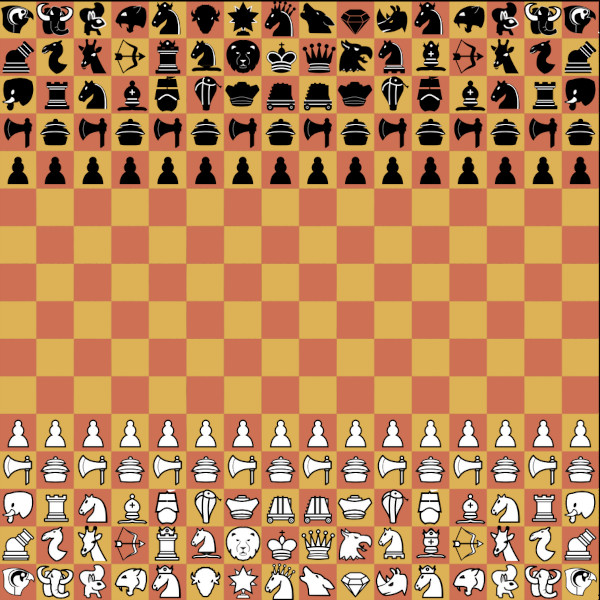
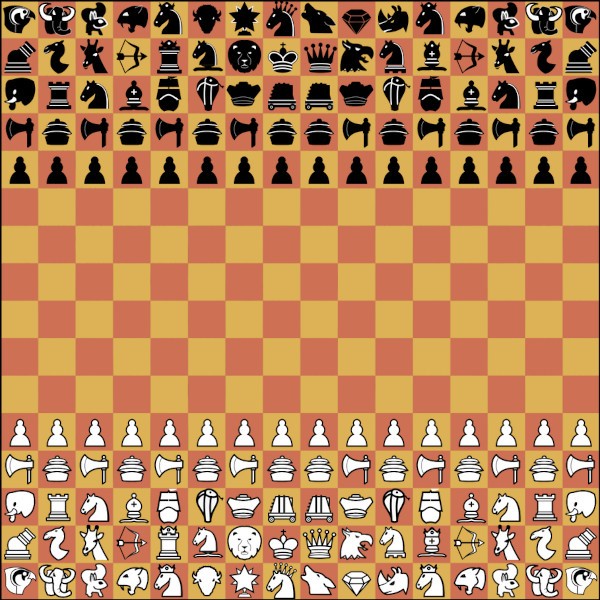
Bigorra : fix the soldier's movement and initial position

diff --git a/src/games/chessbase/cazaux/bigorra-model.js b/src/games/chessbase/cazaux/bigorra-model.js
@@ -196,7 +196,7 @@
 						[-3,3],[0,3],[3,3],[-3,0],[3,0],[-3,-3],
 						[0,-3],[-3,3]])),
                     value : 3.2,
-                    initial: [{s:1,p:48},{s:1,p:50},{s:1,p:52},{s:1,p:54},{s:1,p:56},{s:1,p:58},{s:1,p:60},{s:1,p:62}],
+                    initial: [{s:1,p:48},{s:1,p:50},{s:1,p:52},{s:1,p:54},{s:1,p:57},{s:1,p:59},{s:1,p:61},{s:1,p:63}],
                 },
                 10: {
                     name : 'troll-b',
@@ -208,7 +208,7 @@
 						[-3,3],[0,3],[3,3],[-3,0],[3,0],[-3,-3],
 						[0,-3],[-3,3]])),
                     value : 3.2,
-                    initial: [{s:-1,p:192},{s:-1,p:194},{s:-1,p:196},{s:-1,p:198},{s:-1,p:200},{s:-1,p:202},{s:-1,p:204},{s:-1,p:206}],
+                    initial: [{s:-1,p:192},{s:-1,p:194},{s:-1,p:196},{s:-1,p:198},{s:-1,p:201},{s:-1,p:203},{s:-1,p:205},{s:-1,p:207}],
                 },
                 11: {
                   name : 'princew',
@@ -267,9 +267,9 @@
                   graph : this.cbMergeGraphs(geometry,
                   this.cbInitialPawnGraph(geometry,1),
                   this.cbShortRangeGraph(geometry,[
-						[-1,0],[1,0]])),
+						[-1,0],[1,0]],0, this.cbConstants.FLAG_MOVE)),
                   value : 0.9,
-                  initial: [{s:1,p:49},{s:1,p:51},{s:1,p:53},{s:1,p:55},{s:1,p:57},{s:1,p:59},{s:1,p:61},{s:1,p:63}],
+                  initial: [{s:1,p:49},{s:1,p:51},{s:1,p:53},{s:1,p:55},{s:1,p:56},{s:1,p:58},{s:1,p:60},{s:1,p:62}],
                   epCatch : true,
                   epTarget : true,
                 },
@@ -280,9 +280,9 @@
                   graph : this.cbMergeGraphs(geometry,
                   this.cbInitialPawnGraph(geometry,-1),
                   this.cbShortRangeGraph(geometry,[
-						[-1,0],[1,0]])),
+						[-1,0],[1,0]],0, this.cbConstants.FLAG_MOVE)),
                   value : 0.9,
-                  initial: [{s:-1,p:193},{s:-1,p:195},{s:-1,p:197},{s:-1,p:199},{s:-1,p:201},{s:-1,p:203},{s:-1,p:205},{s:-1,p:207}],
+                  initial: [{s:-1,p:193},{s:-1,p:195},{s:-1,p:197},{s:-1,p:199},{s:-1,p:200},{s:-1,p:202},{s:-1,p:204},{s:-1,p:206}],
                   epCatch : true,
                   epTarget : true,
                   },

diff --git a/src/games/chessbase/res/rules/shogi/chu-seireigi-shogi-rules.html b/src/games/chessbase/res/rules/shogi/chu-seireigi-shogi-rules.html
@@ -68,7 +68,7 @@
 <p><img class='piece-icon' src="{GAME}/res/rules/shogi/w-trident.png"/><b>Whale</b> is the promotion of the Strong bear</p>
 <p><img class='piece-graph' src="{GAME}/res/rules/shogi/graphs/seireigi-whale.png"/></p>
 <p><b>Prancing stag</b> is the promotion of the Running rabbit</p> 
-<p><img class="piece-graph" src="{GAME}/res/rules/shogi/graphs/stag.png"/></p>
+<p><img class="piece-graph" src="{GAME}/res/rules/shogi/graphs/seireigi-prancing-stag.png"/></p>
 <p><b>Teaching king</b> is the promotion of the Great elephant</p> <p><img class="piece-graph" src="{GAME}/res/rules/shogi/graphs/teacher.png"/></p>
 <p><b>Treacherous fox</b> is the promotion of the Ram's-head soldier</p> <p><img class="piece-graph" src="{GAME}/res/rules/shogi/graphs/fox.png"/></p>
 <p><b>Golden bird</b> is the promotion of the Flying swallow</p> <p><img class="piece-graph" src="{GAME}/res/rules/shogi/graphs/bird.png"/></p>

diff --git a/src/games/chessbase/index.js b/src/games/chessbase/index.js
@@ -2571,12 +2571,16 @@ exports.games = (function () {
 				"status": true,
 				"model": {
 					"title-en": "Basic Chess",
-					"summary": "Basic Chess",
+					"summary": "Basic Chess without openings book",
 					"rules": config_model_rules,
 					"module": "chessbase",
 					"plazza": "true",
 					"thumbnail": "res/rules/famous/knight-thumbnail.png",
 					"released": 1389887778,
+					"rules": {
+						"en": "res/rules/famous/rules.html",
+						"fr": "res/rules/famous/rules-fr.html"
+					},
 					"credits": config_model_credits,
 					"gameOptions": config_model_gameOptions,
 					"obsolete": true,
